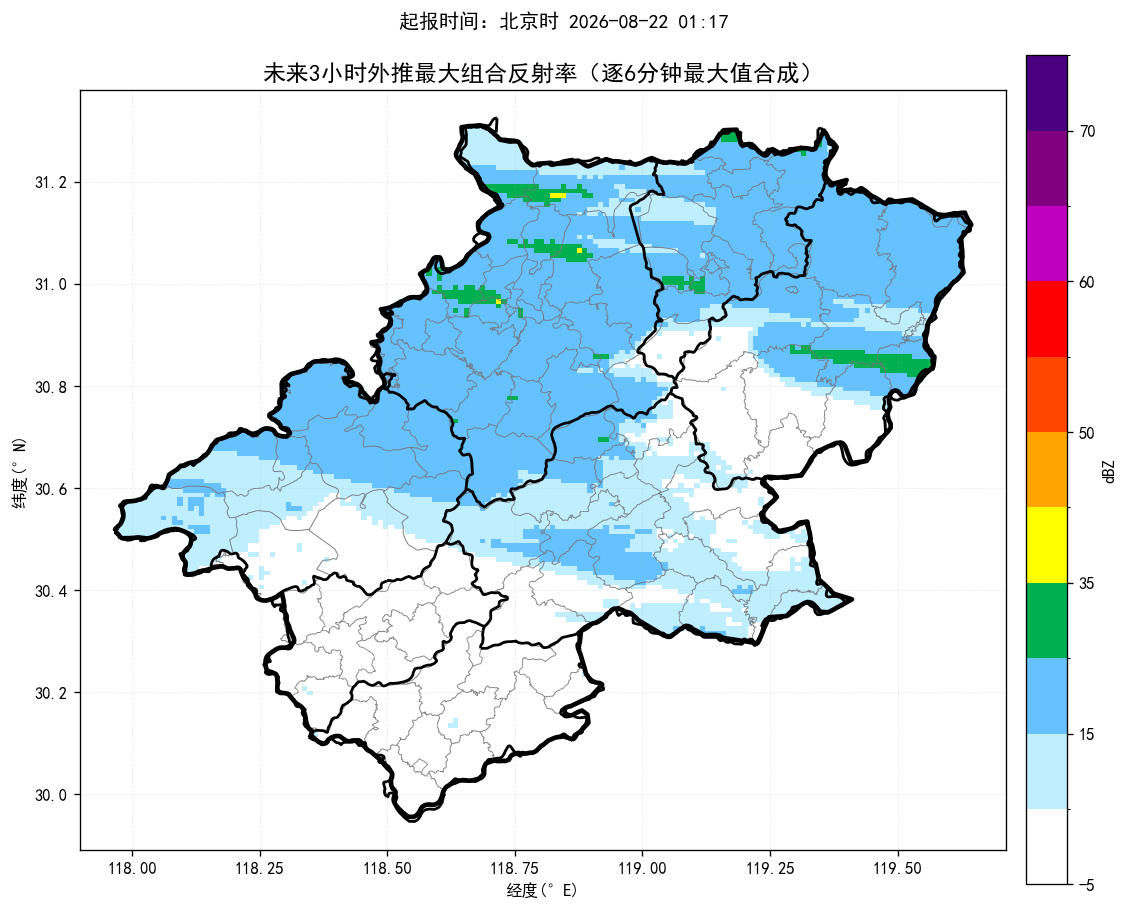
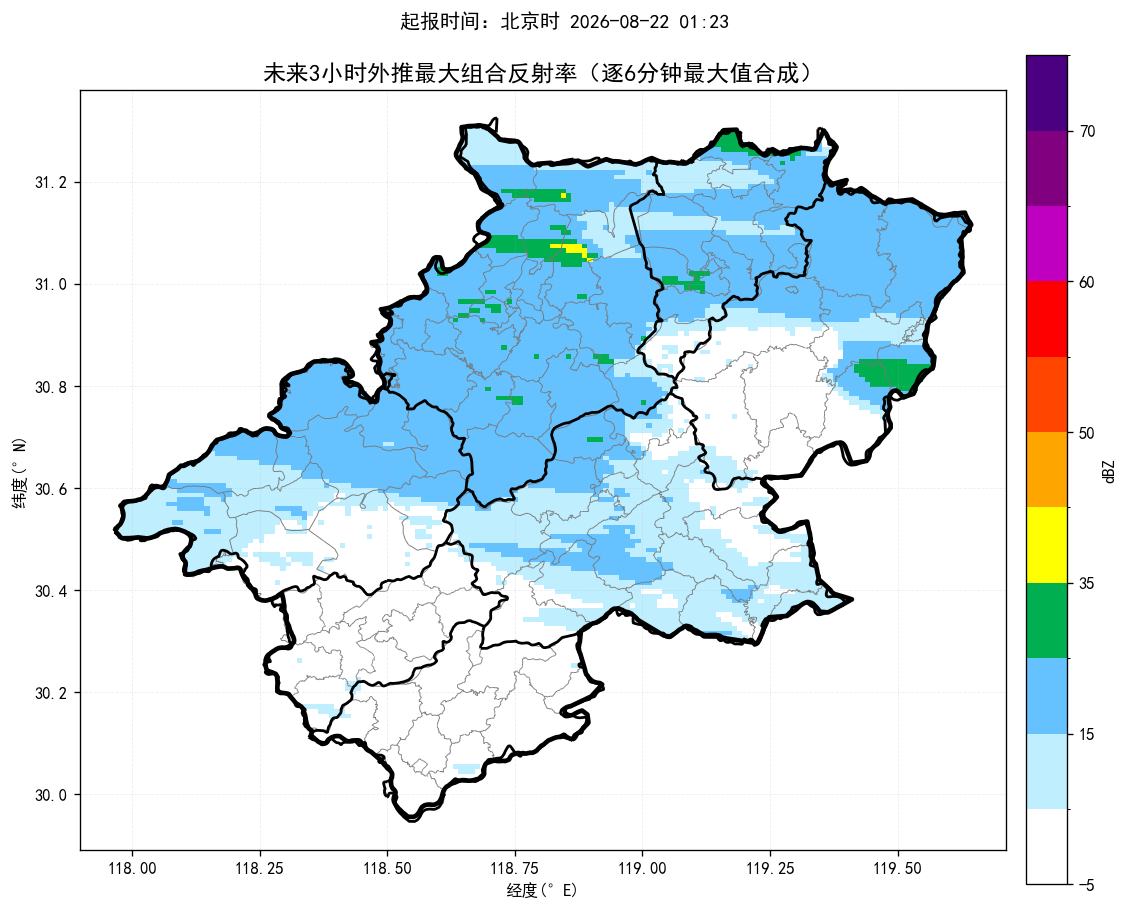
update nowcast products

diff --git a/index.html b/index.html
@@ -14,14 +14,14 @@ img.product{display:block;width:100%;height:auto;margin:10px auto 26px;border:1p
 .footer{font-size:13px;color:#777;text-align:center;margin-top:30px}
 @media(max-width:700px){.sheet{margin:0;padding:18px 15px}.alert-title{font-size:22px}.county-line{font-size:17px}.prob{font-size:18px}}
 </style></head><body><main class="sheet">
-<div class="time">起报时间：北京时 2026-08-22 01:17</div>
+<div class="time">起报时间：北京时 2026-08-22 01:23</div>
 <div class="alert-title">未来一小时降水量超过 20 毫米的乡镇：</div><div class="county-line">无</div>
 <div class="alert-title">未来三小时降水量超过 50 毫米的乡镇：</div><div class="county-line">无</div>
 <div class="alert-title">未来三小时雷暴大风（组合反射率 > 55 dBZ）的乡镇：</div><div class="county-line">无</div>
-<div class="prob">最大降水量概率预估：宣城市范围内未来三小时降水偏小，最大预报约2.5毫米，暂不进行50/80/100毫米概率预估。</div>
-<div class="section-title">未来降水预报图：</div><img class="product auto-refresh-product" data-src="短临降水预报.png" src="短临降水预报.png?v=20260822012321" alt="未来降水预报图">
-<div class="section-title">未来三小时组合反射率图：</div><img class="product auto-refresh-product" data-src="未来3小时组合反射率.png" src="未来3小时组合反射率.png?v=20260822012321" alt="未来三小时组合反射率图">
-<div class="section-title">未来三小时雷暴大风图：</div><img class="product auto-refresh-product" data-src="未来3小时雷暴大风.png" src="未来3小时雷暴大风.png?v=20260822012321" alt="未来三小时雷暴大风图">
+<div class="prob">最大降水量概率预估：宣城市范围内未来三小时降水偏小，最大预报约3.6毫米，暂不进行50/80/100毫米概率预估。</div>
+<div class="section-title">未来降水预报图：</div><img class="product auto-refresh-product" data-src="短临降水预报.png" src="短临降水预报.png?v=20260822012901" alt="未来降水预报图">
+<div class="section-title">未来三小时组合反射率图：</div><img class="product auto-refresh-product" data-src="未来3小时组合反射率.png" src="未来3小时组合反射率.png?v=20260822012901" alt="未来三小时组合反射率图">
+<div class="section-title">未来三小时雷暴大风图：</div><img class="product auto-refresh-product" data-src="未来3小时雷暴大风.png" src="未来3小时雷暴大风.png?v=20260822012901" alt="未来三小时雷暴大风图">
 <div class="footer">三张产品图每 60 秒自动刷新一次；每次请求自动附加新的URL参数以绕过缓存。</div>
 <script>
 (function() {
